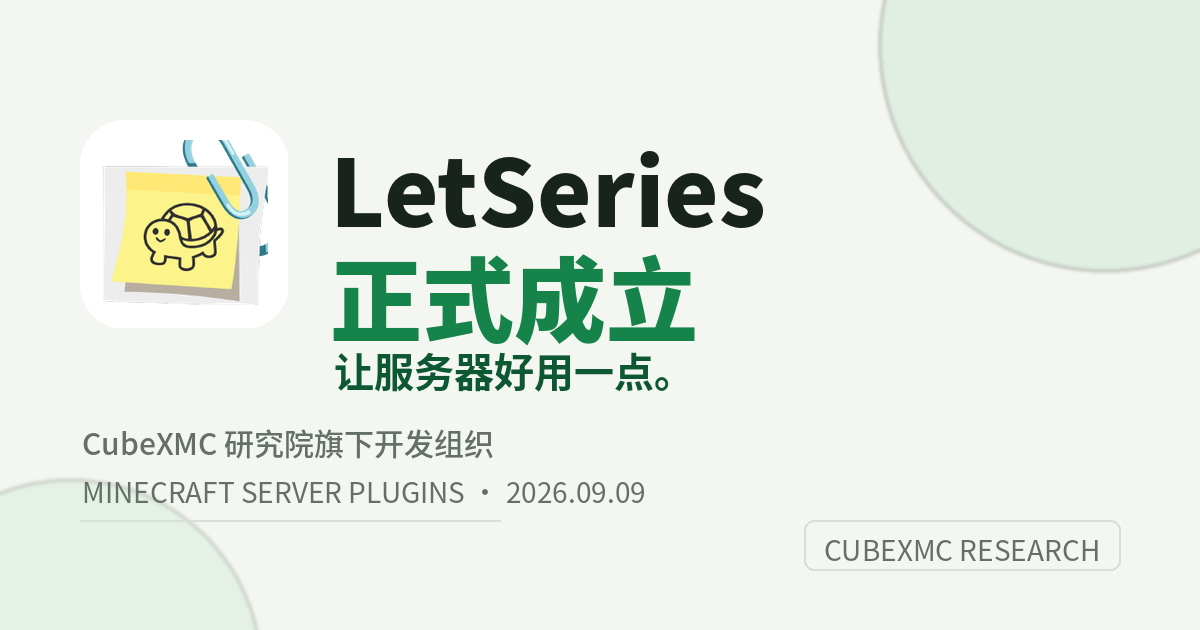
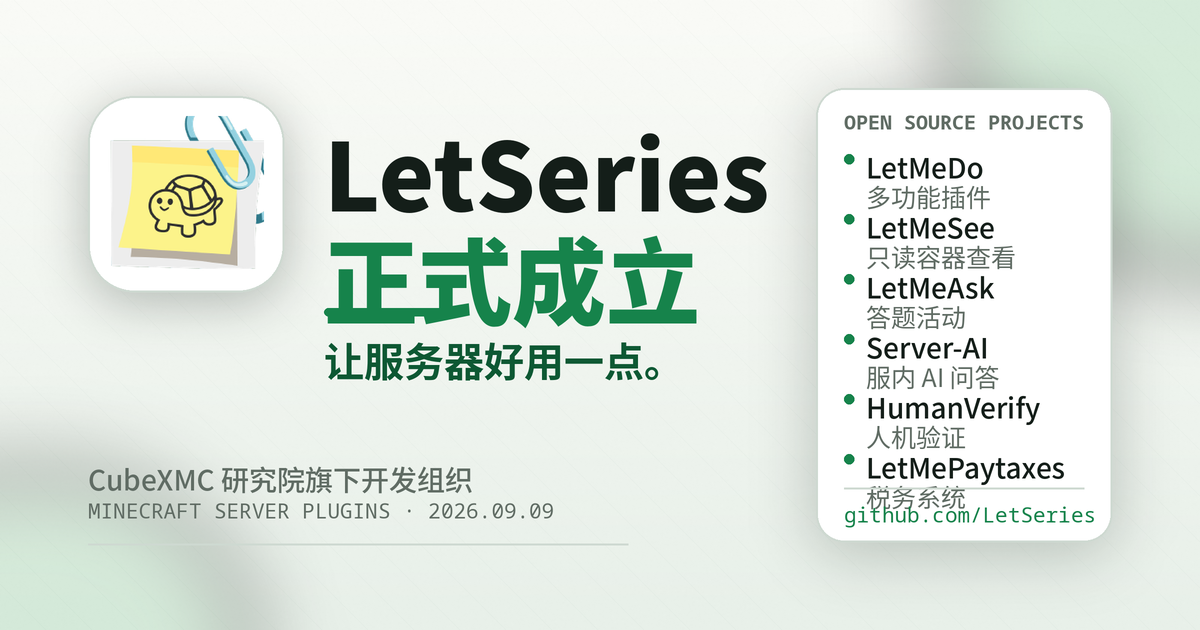
asset: 深度优化成立新闻封面v2（渐变+质感+项目面板+可复现脚本）

Changed region(s): [[0.0617, 0.0, 1.0, 0.9349], [0.0, 0.6635, 0.555, 1.0], [0.7092, 0.0, 0.74, 0.0603]]

diff --git a/images/make_cover.py b/images/make_cover.py
@@ -1,0 +1,105 @@
+from PIL import Image, ImageDraw, ImageFont, ImageFilter
+import random
+
+S = 2
+W, H = 1200*S, 630*S
+BG_TOP = (250, 251, 247)
+BG_BOT = (232, 240, 233)
+GREEN = (22, 131, 75)
+DEEP = (13, 88, 51)
+INK = (20, 30, 25)
+MUTED = (96, 108, 100)
+HAIR = (206, 217, 209)
+CARD = (255, 255, 255)
+
+random.seed(7)
+FB = '/usr/share/fonts/adobe-source-han-sans/SourceHanSansCN-'
+FM = '/usr/share/fonts/noto/NotoSansMono-'
+def F(p, s): return ImageFont.truetype(p, s*S)
+f_display = F(FB+'Heavy.otf', 94)
+f_sub = F(FB+'Bold.otf', 40)
+f_body = F(FB+'Medium.otf', 28)
+f_small = F(FB+'Regular.otf', 25)
+f_mono = F(FM+'Bold.ttf', 20)
+f_monor = F(FM+'Regular.ttf', 21)
+
+img = Image.new('RGB', (W, H))
+px = img.load()
+for y in range(H):
+    t = y/(H-1)
+    c = tuple(int(BG_TOP[i]+(BG_BOT[i]-BG_TOP[i])*t) for i in range(3))
+    for x in range(W): px[x,y] = c
+d = ImageDraw.Draw(img, 'RGBA')
+
+def soft_circle(box, fill, blur=40*S):
+    lay = Image.new('RGBA', (W,H), (0,0,0,0))
+    ImageDraw.Draw(lay).ellipse(box, fill=fill)
+    return lay.filter(ImageFilter.GaussianBlur(blur))
+img = Image.alpha_composite(img.convert('RGBA'),
+    Image.alpha_composite(soft_circle([950*S,-220*S,1440*S,270*S], (190,225,198,150)),
+                          soft_circle([-160*S,470*S,260*S,890*S], (190,225,198,120)))).convert('RGB')
+d = ImageDraw.Draw(img, 'RGBA')
+
+grid = Image.new('RGBA', (W,H), (0,0,0,0))
+gd = ImageDraw.Draw(grid)
+for x in range(-H, W, 46*S):
+    gd.line([(x,0),(x+H,H)], fill=(13,88,51,10), width=1)
+img = Image.alpha_composite(img.convert('RGBA'), grid).convert('RGB')
+d = ImageDraw.Draw(img, 'RGBA')
+
+grain = Image.effect_noise((W//3, H//3), 14).convert('L').resize((W,H), Image.BILINEAR)
+gpts = grain.load(); ipx = img.load()
+for y in range(0,H,2):
+    for x in range(0,W,2):
+        n = (gpts[x,y]-128)//9
+        if n:
+            r,g,b = ipx[x,y]
+            ipx[x,y] = (max(0,min(255,r+n)), max(0,min(255,g+n)), max(0,min(255,b+n)))
+d = ImageDraw.Draw(img, 'RGBA')
+
+def shadowed_paste(base, im, pos, radius, blur=24*S, alpha=70, dy=10*S):
+    sh = Image.new('RGBA', base.size, (0,0,0,0))
+    m = Image.new('L', im.size, 0)
+    ImageDraw.Draw(m).rounded_rectangle([0,0,im.size[0],im.size[1]], radius, fill=255)
+    black = Image.new('RGBA', im.size, (13,40,26,alpha))
+    sh.paste(black, (pos[0], pos[1]+dy), m)
+    sh = sh.filter(ImageFilter.GaussianBlur(blur))
+    return Image.alpha_composite(base.convert('RGBA'), sh).convert('RGB')
+
+GX, GY = 88*S, 96*S
+card_w, card_h, card_r = 196*S, 196*S, 46*S
+img = shadowed_paste(img, Image.new('RGBA',(card_w,card_h),(0,0,0,0)), (GX,GY), card_r)
+d = ImageDraw.Draw(img, 'RGBA')
+d.rounded_rectangle([GX,GY,GX+card_w,GY+card_h], card_r, fill=CARD, outline=HAIR, width=2*S)
+logo = Image.open('/tmp/ls_logo.png').convert('RGBA').resize((156*S,156*S), Image.LANCZOS)
+img.paste(logo, (GX+20*S, GY+20*S), logo)
+
+TX = GX + 236*S
+d.text((TX, GY+6*S), 'LetSeries', font=f_display, fill=INK)
+d.text((TX, GY+112*S), '正式成立', font=f_display, fill=GREEN)
+d.rounded_rectangle([TX, GY+212*S, TX+140*S, GY+220*S], 4*S, fill=GREEN)
+d.text((TX, GY+234*S), '让服务器好用一点。', font=f_sub, fill=DEEP)
+d.text((GX, GY+362*S), 'CubeXMC 研究院旗下开发组织', font=f_body, fill=MUTED)
+d.text((GX, GY+400*S), 'MINECRAFT SERVER PLUGINS · 2026.09.09', font=f_monor, fill=MUTED)
+d.line([(GX, GY+448*S), (GX+540*S, GY+448*S)], fill=HAIR, width=2*S)
+
+PX, PY, PW, PH = 816*S, 88*S, 296*S, 454*S
+img = shadowed_paste(img, Image.new('RGBA',(PW,PH),(0,0,0,0)), (PX,PY), 28*S, blur=30*S, alpha=60)
+d = ImageDraw.Draw(img, 'RGBA')
+d.rounded_rectangle([PX,PY,PX+PW,PY+PH], 28*S, fill=CARD, outline=HAIR, width=2*S)
+d.text((PX+28*S, PY+20*S), 'OPEN SOURCE PROJECTS', font=f_mono, fill=MUTED)
+items = ['LetMeDo · 多功能插件', 'LetMeSee · 只读容器查看', 'LetMeAsk · 答题活动',
+         'Server-AI · 服内 AI 问答', 'HumanVerify · 人机验证', 'LetMePaytaxes · 税务系统']
+y = PY+58*S
+for it in items:
+    name, desc = it.split(' · ')
+    d.ellipse([PX+28*S, y+8*S, PX+38*S, y+18*S], fill=GREEN)
+    d.text((PX+50*S, y), name, font=f_body, fill=INK)
+    d.text((PX+50*S, y+32*S), desc, font=f_small, fill=MUTED)
+    y += 60*S
+d.line([(PX+28*S, PY+PH-54*S), (PX+PW-28*S, PY+PH-54*S)], fill=HAIR, width=2*S)
+d.text((PX+28*S, PY+PH-42*S), 'github.com/LetSeries', font=f_monor, fill=GREEN)
+
+img = img.resize((1200, 630), Image.LANCZOS)
+img.save('/tmp/cover_v2.png')
+print('saved v2', img.size)
